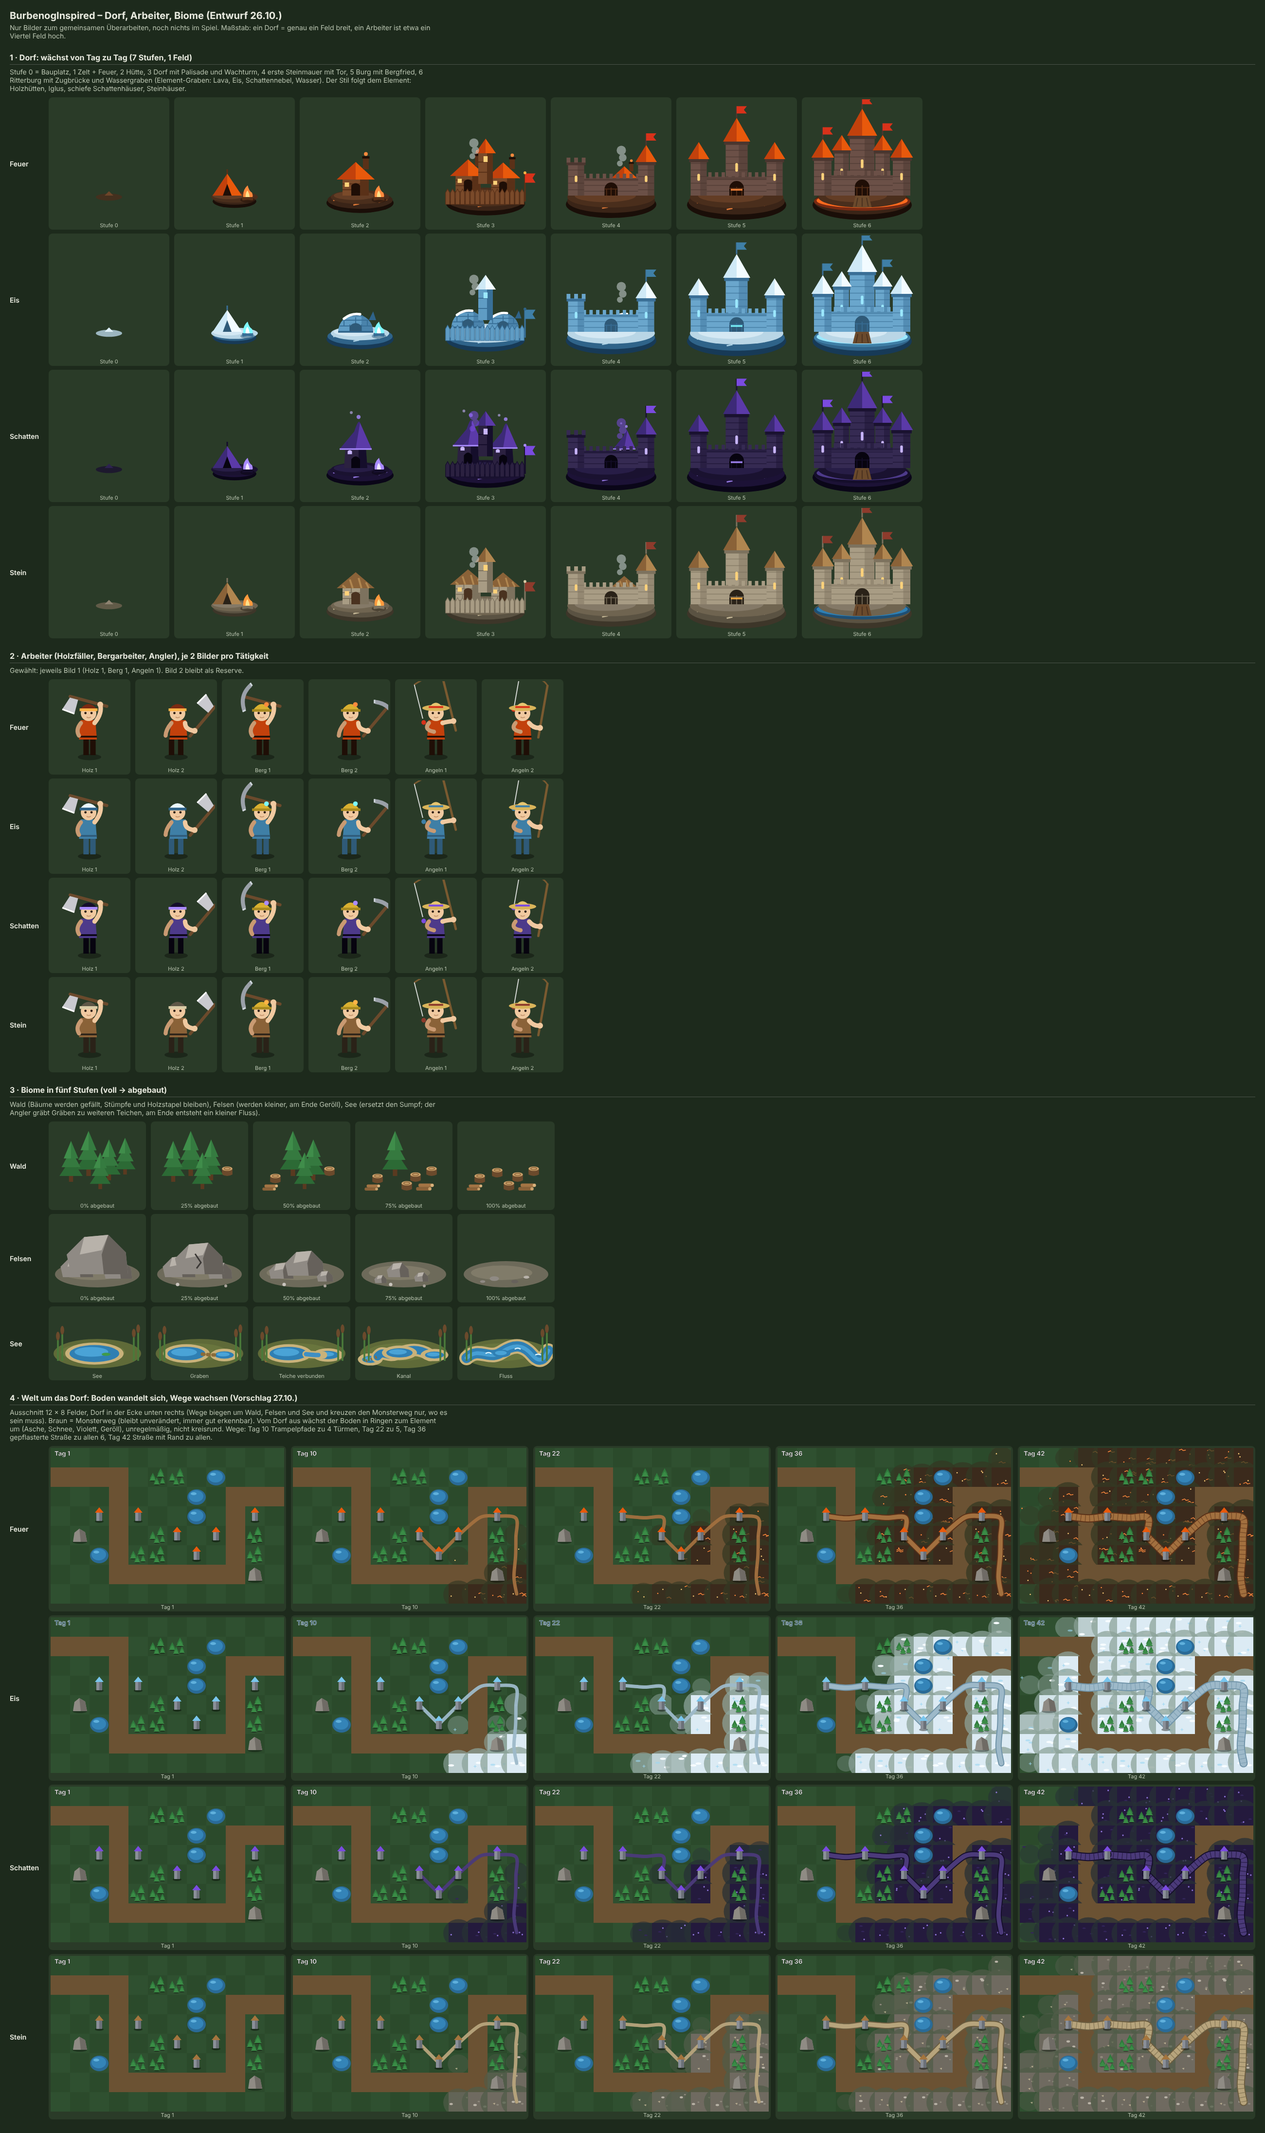
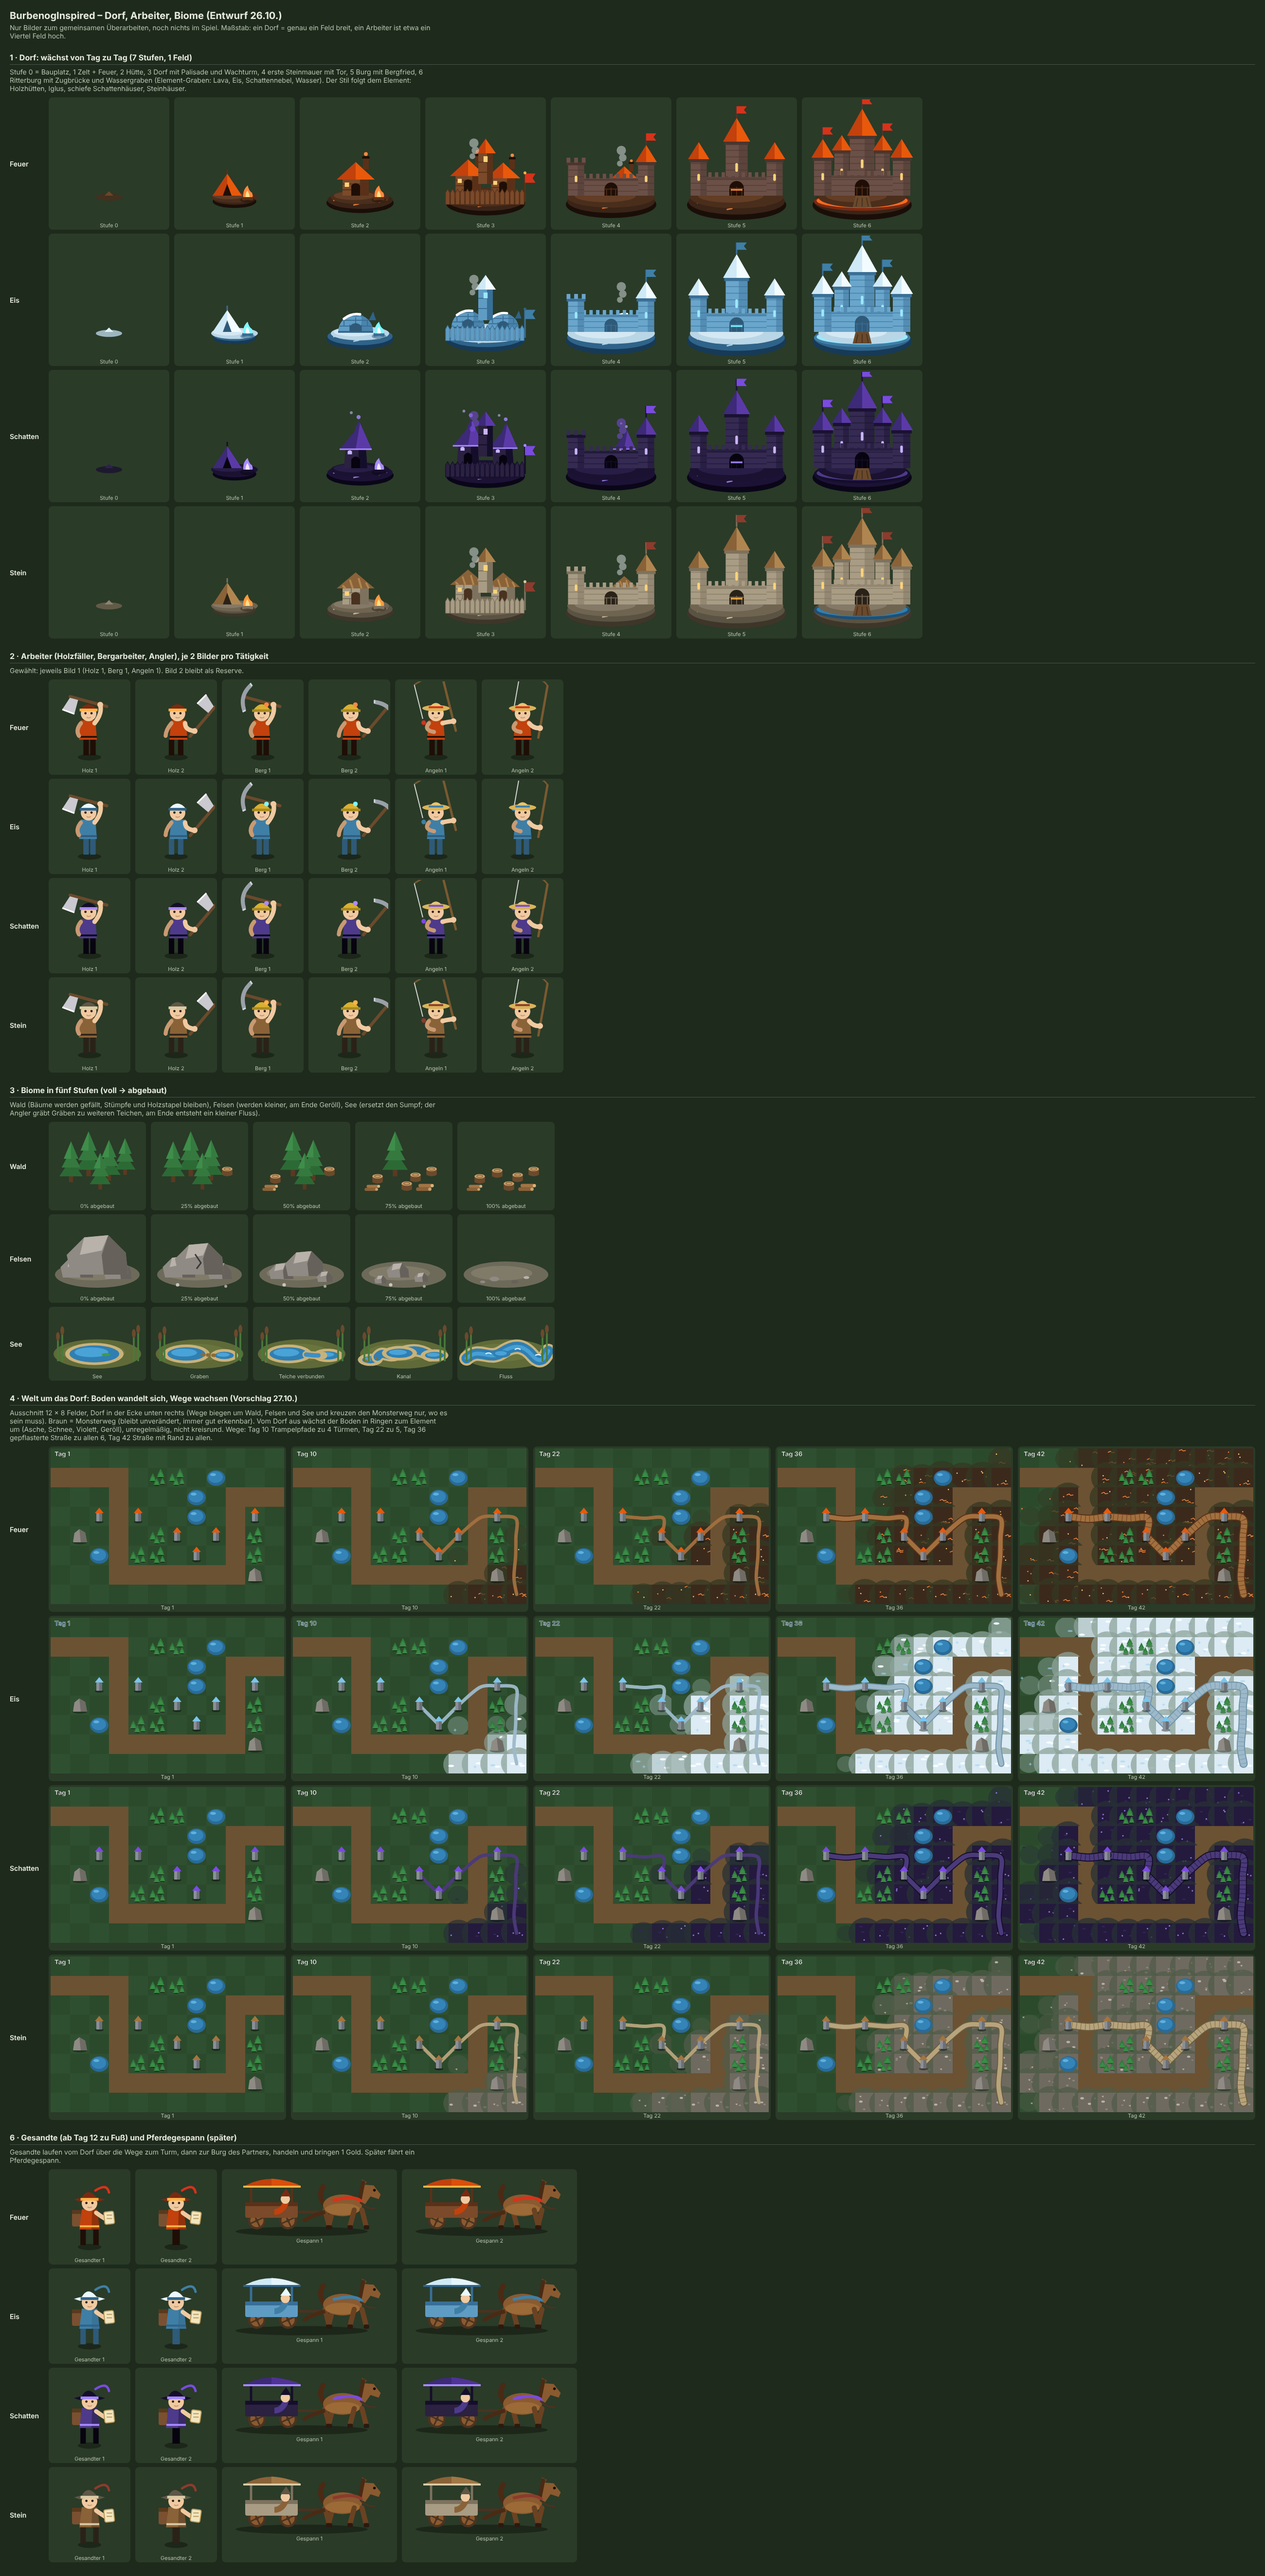
Gesandte und Pferdegespann zwischen den Dörfern (nur Anzeige), v27v
Claude-Session: https://claude.ai/code/session_012Nsno37nEjc4wateER8C5H

diff --git a/index.html b/index.html
@@ -222,7 +222,7 @@ const FIREBASE_CONFIG = {
   appId: "1:45840879921:web:f4f4f8bb60e49a091ae010"
 };
 const GAME_ID = "spiel1";   // anderer Name = eigenes, getrenntes Spiel
-const VERSION = "2026-10-27u";  // bei JEDER Änderung hochzählen: alte Handys merken so, dass sie neu laden müssen
+const VERSION = "2026-10-27v";  // bei JEDER Änderung hochzählen: alte Handys merken so, dass sie neu laden müssen
 
 /* =====================================================================
    SPIELDATEN – Regeln und Zahlen. Alles hier darf geändert werden.
@@ -2451,16 +2451,46 @@ function workerPoint(w, vc, T){   // Position (Feldeinheiten, Fußpunkt), Blickr
   const r = at((ph - workT - tw - idle) * sp); return { x:r[0], y:r[1], flip:r[2] < 0, work:false };   // wieder hinaus
 }
 let MAPS_BY_WORKER = { map:null };
+// ---- Gesandte (27.10., F): ab Tag 12 zu Fuß, ab Tag 28 mit Pferdegespann; nur Anzeige (das Gold ist nur ein Bild, es ändert keinen Spielstand) ----
+const ENVR = {};
+function envoyRoute(i, wl){   // Dorf → nächster Turm über denselben Weg, der auch gezeichnet wird
+  const t = wl.used[0]; if (!t || !(wl.prog[0] >= 1)) return null; const key = [TSEED, i, wl.vc.x, wl.vc.y, t.x, t.y].join('.'); if (ENVR[key] !== undefined) return ENVR[key];
+  let R = null; try { const sg = worldPaths(MAPS[i], wl.vc, [t], i)[0]; if (sg && sg.length > 1) { const P = sg.map((k, j) => { const [x, y] = k.split(',').map(Number); return j === 0 || j === sg.length - 1 ? [x + .5, y + .72] : [x + .5 + (wHash(x, y, 7) - .5)*.3, y + .72 + (wHash(x, y, 8) - .5)*.3]; });
+    const seg = []; let len = 0; for (let j = 1; j < P.length; j++) { const d = Math.hypot(P[j][0]-P[j-1][0], P[j][1]-P[j-1][1]); seg.push(d); len += d; } R = { pts:P, seg, len }; } } catch (e) {}
+  return ENVR[key] = R;
+}
+function routeAt(R, d){ let q = Math.max(0, Math.min(R.len, d)); for (let j = 0; j < R.seg.length; j++) { if (q <= R.seg[j] || j === R.seg.length - 1) { const f = R.seg[j] ? q / R.seg[j] : 0, a = R.pts[j], b = R.pts[j+1]; return [a[0] + (b[0]-a[0])*f, a[1] + (b[1]-a[1])*f, b[0] - a[0]]; } q -= R.seg[j]; } return [R.pts[0][0], R.pts[0][1], 1]; }
+function envoyState(o, n, T, day, A, B, p){   // Gesandter von Map o zur Map p und zurück; liefert Map, Position, Blickrichtung, Zustand
+  const car = day >= 28, sp = car ? 2.3 : .9, tA = A.len / sp, tB = B.len / sp, trade = 2.6, gap = 2.5, cyc = tA + 2*tB + trade + tA + gap, ph = (T + n * cyc / 2 + o * 3.7) % cyc;
+  if (ph < tA) { const r = routeAt(A, ph*sp); return { lane:o, x:r[0], y:r[1], flip:r[2] < 0, car }; }
+  if (ph < tA + tB) { const r = routeAt(B, B.len - (ph - tA)*sp); return { lane:p, x:r[0], y:r[1], flip:r[2] > 0, car }; }   // auf der Partner-Map vom Turm zur Burg
+  if (ph < tA + tB + trade) return { lane:p, x:B.pts[0][0], y:B.pts[0][1], flip:false, car, trade:true, k:(ph - tA - tB) / trade };
+  if (ph < tA + 2*tB + trade) { const r = routeAt(B, (ph - tA - tB - trade)*sp); return { lane:p, x:r[0], y:r[1], flip:r[2] < 0, car, coin:true }; }
+  if (ph < 2*tA + 2*tB + trade) { const r = routeAt(A, A.len - (ph - tA - 2*tB - trade)*sp); return { lane:o, x:r[0], y:r[1], flip:r[2] > 0, car, coin:true }; }
+  return { lane:o, x:A.pts[0][0], y:A.pts[0][1], flip:false, car, pop:(ph - 2*tA - 2*tB - trade) / gap, hide:true };
+}
+function drawEnvoys(c, i, cs, k, top, T, wls){
+  const n = NP(), day = wls[i].day; if (n < 2 || day < 12) return;
+  for (let o = 0; o < n; o++) { const p = (o + 1) % n, wo = wls[o], wp = wls[p]; const A = envoyRoute(o, wo), B = envoyRoute(p, wp); if (!A || !B) continue;
+    for (let e = 0; e < (day >= 24 ? 2 : 1); e++) { const q = envoyState(o, e, T, day, A, B, p); if (q.lane !== i) continue;
+      const fx = q.x*cs, fy = top + q.y*cs*k;
+      if (q.hide) { if (q.pop >= 0 && q.pop < .6) { c.font = `700 ${cs*.17}px sans-serif`; c.textAlign = 'center'; c.fillStyle = `rgba(255,214,90,${1 - q.pop/.6})`; c.strokeStyle = `rgba(60,40,0,${1 - q.pop/.6})`; c.lineWidth = 2; const ty = fy - cs*.25 - q.pop*cs*.4; c.strokeText('+1', fx, ty); c.fillText('+1', fx, ty); } continue; }
+      const el = wls[q.lane].el, fr = Math.floor(T * (q.car ? 7 : 4) + e) % 2, im = dorfImg((q.car ? 'gespann-' : 'gesandter-') + VIL_KEY[el] + '-' + fr); if (!im) continue;
+      const sc = q.car ? cs * .5 / 304 : cs * .25 / 135, ww = im.naturalWidth * sc, hh = im.naturalHeight * sc, foot = q.car ? 120 : 152, bob = q.trade ? 0 : Math.abs(Math.sin(T * (q.car ? 14 : 9) + e)) * cs * (q.car ? .006 : .015);
+      c.save(); c.translate(fx, fy - bob); if (q.flip) c.scale(-1, 1); c.drawImage(im, -ww/2, -foot*sc, ww, hh); c.restore();
+      if (q.coin || q.trade) { const cy = fy - (q.car ? cs*.3 : cs*.33) - bob; c.fillStyle = '#ffd35a'; c.strokeStyle = '#8a6a10'; c.lineWidth = Math.max(1, cs*.012); c.beginPath(); c.arc(fx, cy - (q.trade ? Math.sin(q.k*6.28)*cs*.02 : 0), cs*.04, 0, Math.PI*2); c.fill(); c.stroke(); c.fillStyle = '#8a6a10'; c.font = `700 ${cs*.06}px sans-serif`; c.textAlign = 'center'; c.textBaseline = 'middle'; c.fillText('1', fx, cy + 1); c.textBaseline = 'alphabetic'; } } }
+}
 function workerTick(){
   if (!G || (typeof document !== 'undefined' && document.hidden)) return;
-  const T = performance.now() / 1000, dpr = window.devicePixelRatio || 1;
+  const T = performance.now() / 1000, dpr = window.devicePixelRatio || 1, wls = []; for (let i = 0; i < NP(); i++) wls[i] = worldInfo(i, MAPS[i]);
   for (let i = 0; i < NP(); i++) { const cv = $('cv'+i); if (!cv || !cv.clientWidth) continue;
     let ov = $('ov'+i); if (ov && ov.parentNode !== cv.parentNode) { ov.remove(); ov = null; }
     if (!ov) { ov = document.createElement('canvas'); ov.id = 'ov' + i; ov.style.cssText = 'position:absolute;left:0;top:0;pointer-events:none'; cv.parentNode.insertBefore(ov, cv.nextSibling); }
     const W = cv.clientWidth, H = cv.clientHeight; if (ov.width !== Math.round(W*dpr) || ov.height !== Math.round(H*dpr)) { ov.width = Math.round(W*dpr); ov.height = Math.round(H*dpr); ov.style.width = W + 'px'; ov.style.height = H + 'px'; }
     const c = ov.getContext('2d'); c.setTransform(dpr, 0, 0, dpr, 0, 0); c.clearRect(0, 0, W, H);
-    const map = MAPS[i], wl = worldInfo(i, map); if (!wl.act.length) continue; MAPS_BY_WORKER.map = map;
+    const map = MAPS[i], wl = wls[i]; MAPS_BY_WORKER.map = map;
     const cs = W / COLS, k = view25 ? VK : 1, top = view25 ? cs*.45 : 0;
+    drawEnvoys(c, i, cs, k, top, T, wls);
     for (const w of wl.act.slice().sort((a, b) => a.y - b.y)) { const q = workerPoint(w, wl.vc, T); const im = workerImg(wl.el, w.job, q.work ? Math.floor(T*2.5 + w.n) % 2 : Math.floor(T*5 + w.n) % 2); if (!im) continue;
       const sc = cs * .25 / 135, ww = im.naturalWidth * sc, hh = im.naturalHeight * sc, bob = q.work || q.rest ? 0 : Math.abs(Math.sin(T*9 + w.n)) * cs*.015, fx = q.x*cs, fy = top + q.y*cs*k - bob;
       c.save(); c.translate(fx, fy); if (q.flip) c.scale(-1, 1); c.drawImage(im, -ww/2, -152*sc, ww, hh); c.restore(); } }

diff --git a/tools/dorf/dorf.html b/tools/dorf/dorf.html
@@ -229,5 +229,34 @@ function welt(k,si){
 h+=`<h2>4 · Welt um das Dorf: Boden wandelt sich, Wege wachsen (Vorschlag 27.10.)</h2><p class="n">Ausschnitt 12 × 8 Felder, Dorf in der Ecke unten rechts (Wege biegen um Wald, Felsen und See und kreuzen den Monsterweg nur, wo es sein muss). Braun = Monsterweg (bleibt unverändert, immer gut erkennbar). Vom Dorf aus wächst der Boden in Ringen zum Element um (Asche, Schnee, Violett, Geröll), unregelmäßig, nicht kreisrund. Wege: Tag 10 Trampelpfade zu 4 Türmen, Tag 22 zu 5, Tag 36 gepflasterte Straße zu allen 6, Tag 42 Straße mit Rand zu allen.</p>`;
 for(const k of KS){h+=`<div class="row"><div class="lab">${SN[k]}</div>`;for(let i=0;i<5;i++)h+=cell(`welt-${k}-${i}`,STG[i].t,welt(k,i));h+='</div>';}
 
+
+// ---------- Gesandte und Pferdegespann ----------
+function gesandter(k,fr){
+ const p=P[k]; let b=`<ellipse cx="0" cy="1" rx="6" ry="1.6" fill="#0005"/>`;
+ const a=fr?1.4:-1.4;
+ b+=`<rect x="${-3.3+a}" y="-8" width="2.8" height="8" fill="${p.dark}"/><rect x="${.5-a}" y="-8" width="2.8" height="8" fill="${p.dark}"/>`;
+ b+=`<rect x="-9" y="-18" width="4.6" height="8.5" rx="1" fill="#7a5030"/><rect x="-9" y="-18" width="4.6" height="2" fill="#5a3a1c"/>`;   // Rucksack
+ b+=`<path d="M-5.2 -8L-4 -18.4H4L5.2 -8Z" fill="${p.tunic}"/><path d="M1 -8L1.4 -18.4H4L5.2 -8Z" fill="${p.dark}" opacity=".3"/><path d="M-5 -9.6H5" stroke="${p.acc}" stroke-width="1"/>`;
+ b+=`<path d="M3.4 -16.6Q7 -14 8.6 -13.2" stroke="${SKIN}" stroke-width="2.2" fill="none" stroke-linecap="round"/><rect x="7.6" y="-17.2" width="5" height="6.4" rx=".8" fill="#f2e6c0" stroke="#b89a5a" stroke-width=".5" transform="rotate(${fr?8:-6} 10 -14)"/><path d="M8.8 -15.4H11.6M8.8 -13.6H11.6" stroke="#b89a5a" stroke-width=".5"/>`;   // Schriftrolle
+ b+=`<circle cx="0" cy="-21.5" r="4" fill="${SKIN}"/><circle cx="1.5" cy="-21.6" r=".6" fill="#2a1a10"/><circle cx="-1.6" cy="-21.6" r=".6" fill="#2a1a10"/><path d="M-1 -19.6Q0 -18.8 1.2 -19.6" stroke="${SKIND}" stroke-width=".5" fill="none"/>`;
+ b+=`<path d="M-8 -23.4Q0 -26 8 -23.4L5 -22.4Q0 -23.8 -5 -22.4Z" fill="${p.cap}"/><path d="M-4.4 -23.4Q-1 -31 4.4 -23.4Z" fill="${p.cap}"/><rect x="-4.6" y="-24.2" width="9.2" height="1.4" fill="${p.acc}"/><path d="M3 -28Q9 -32 10 -27" stroke="${p.flag}" stroke-width="1.2" fill="none" stroke-linecap="round"/>`;   // Reisehut mit Feder
+ return svg('-20 -38 40 44',160,176,b);
+}
+function gespann(k,fr){
+ const p=P[k]; let b=`<ellipse cx="-4" cy="1" rx="34" ry="2.4" fill="#0005"/>`;
+ const a=fr?2.2:-2.2, w=fr?25:-25;
+ for(const wx of [-27,-11]) b+=`<circle cx="${wx}" cy="-4.6" r="4.6" fill="#4a3320"/><circle cx="${wx}" cy="-4.6" r="3.4" fill="#8a5a30"/><path d="M${wx-3.4} -4.6H${wx+3.4}M${wx} -8V-1.2" stroke="#4a3320" stroke-width=".8" transform="rotate(${w} ${wx} -4.6)"/><circle cx="${wx}" cy="-4.6" r=".9" fill="#4a3320"/>`;
+ b+=`<rect x="-33" y="-14" width="27" height="8" rx="1" fill="${p.wall}"/><rect x="-33" y="-14" width="27" height="2" fill="${p.wallD}"/><path d="M-30 -14V-22M-9 -14V-22" stroke="${p.wallD}" stroke-width="1.2"/><path d="M-34 -22Q-19.5 -30 -4.5 -22Z" fill="${p.roof}"/><path d="M-19.5 -26.2Q-4.5 -24 -4.5 -22H-19.5Z" fill="${p.roofL}" opacity=".6"/><path d="M-34 -22H-4.5" stroke="${p.acc}" stroke-width="1"/>`;   // Wagen mit Plane
+ b+=`<path d="M-6 -9H8" stroke="#4a3320" stroke-width="1.4"/>`;   // Deichsel
+ b+=`<path d="M-18 -9Q-14 -9 -12 -14" stroke="${p.tunic}" stroke-width="3" fill="none"/><circle cx="-12.4" cy="-15.6" r="2.4" fill="${SKIN}"/><path d="M-15 -17L-12 -21L-9.4 -17Z" fill="${p.cap}"/>`;   // Kutscher
+ const leg=(x,d)=>`<path d="M${x} -10L${x+d} -1.4" stroke="#6a4222" stroke-width="2.6" stroke-linecap="round"/><rect x="${x+d-1.3}" y="-2.2" width="2.8" height="2.2" rx=".6" fill="#2a1a10"/>`;
+ b+=leg(8,-a)+leg(12,a)+`<path d="M8 -9Q-2 -6 -3 -4" stroke="#4a2a14" stroke-width="2" fill="none"/>`;   // Schweif folgt unten
+ b+=`<path d="M8.4 -12Q4 -17 7 -22" stroke="#4a2a14" stroke-width="2.6" fill="none" stroke-linecap="round"/>`;
+ b+=`<ellipse cx="17" cy="-12.4" rx="10" ry="5.6" fill="#8a5a30"/><ellipse cx="17" cy="-10.4" rx="9" ry="3" fill="#a8743c" opacity=".6"/>`+leg(23,a)+leg(27,-a);
+ b+=`<path d="M25 -15L28.4 -23L33 -22.6L36.6 -18L35.6 -15.6L31.4 -17L28.6 -13Z" fill="#8a5a30"/><path d="M28.4 -23L26.6 -26L29.6 -24.4Z" fill="#6a4222"/><path d="M26 -16L27.6 -24" stroke="#4a2a14" stroke-width="2" stroke-linecap="round"/><circle cx="33.4" cy="-20.2" r=".7" fill="#1a0f08"/><path d="M12 -15Q24 -18 27 -14" stroke="${p.flag}" stroke-width="1.6" fill="none"/><path d="M26 -14Q30 -10 34 -11" stroke="#4a3320" stroke-width=".8" fill="none"/>`;
+ return svg('-44 -30 88 34',352,136,b);
+}
+h+=`<h2>6 · Gesandte (ab Tag 12 zu Fuß) und Pferdegespann (später)</h2><p class="n">Gesandte laufen vom Dorf über die Wege zum Turm, dann zur Burg des Partners, handeln und bringen 1 Gold. Später fährt ein Pferdegespann.</p>`;
+for(const k of KS){h+=`<div class="row"><div class="lab">${SN[k]}</div>`;for(let f=0;f<2;f++)h+=cell(`gesandter-${k}-${f}`,`Gesandter ${f+1}`,gesandter(k,f));for(let f=0;f<2;f++)h+=cell(`gespann-${k}-${f}`,`Gespann ${f+1}`,gespann(k,f));h+='</div>';}
 out.innerHTML=h;
 </script>

diff --git a/team/UPDATES.md b/team/UPDATES.md
@@ -43,6 +43,9 @@
 Mehr als 15 Einträge → die ältesten oben in team/archiv/updates-archiv.md einfügen. -->
 <!-- NEUE EINTRÄGE HIER -->
 
+### 27.10. 02:10 · F · 2026-10-27v – Gesandte zwischen den Dörfern
+Ab Tag 12 laufen kleine Gesandte auf den Wegen zum ersten Turm, von dort zur Burg des nächsten Spielers, handeln und kehren mit einer Münze („+1“) zurück; ab Tag 24 zwei, ab Tag 28 mit Pferdegespann. Nur Anzeige, kein echtes Gold. Neu laden genügt.
+
 ### 28.10. 22:45 · F · 2026-10-27u – Arbeiter laufen um die Biome
 - Arbeiter betreten keine Biomfelder (See, Wald, Fels) mehr und laufen auf freien Feldern um sie herum. Gibt es für ein Feld keinen freien Weg (ringsum Gelände), arbeitet der Arbeiter nur an seinem Platz. Nur Anzeige. Neu laden genügt.
 
